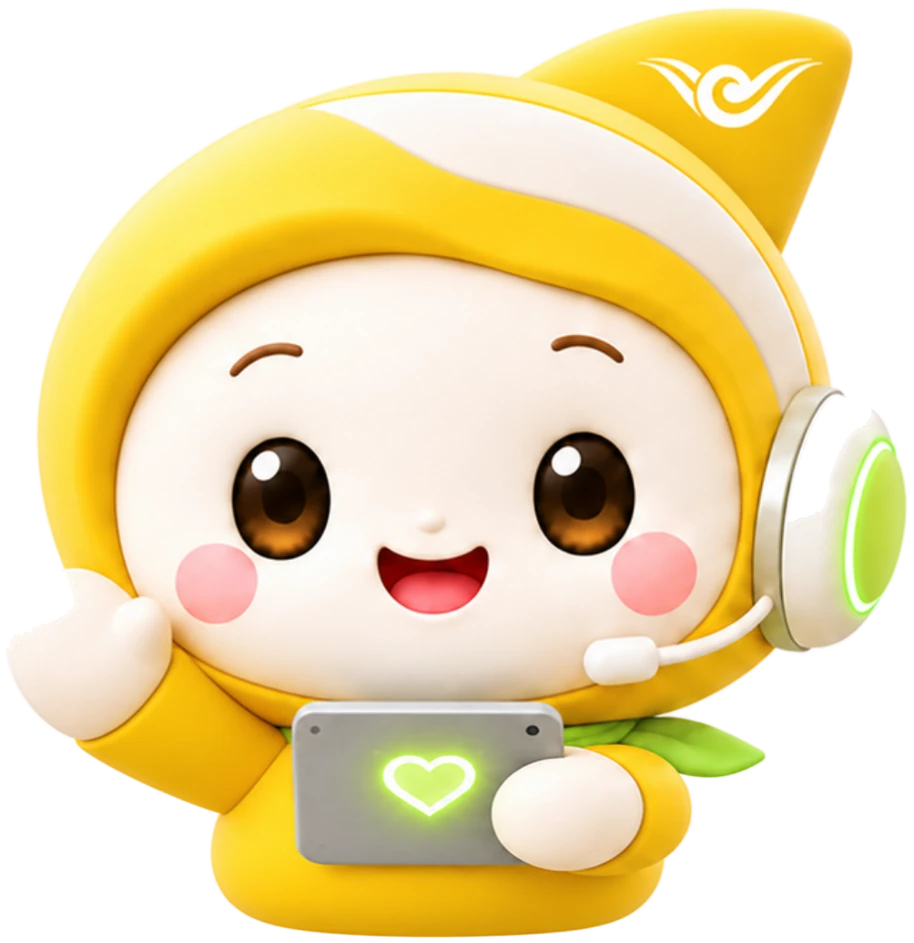
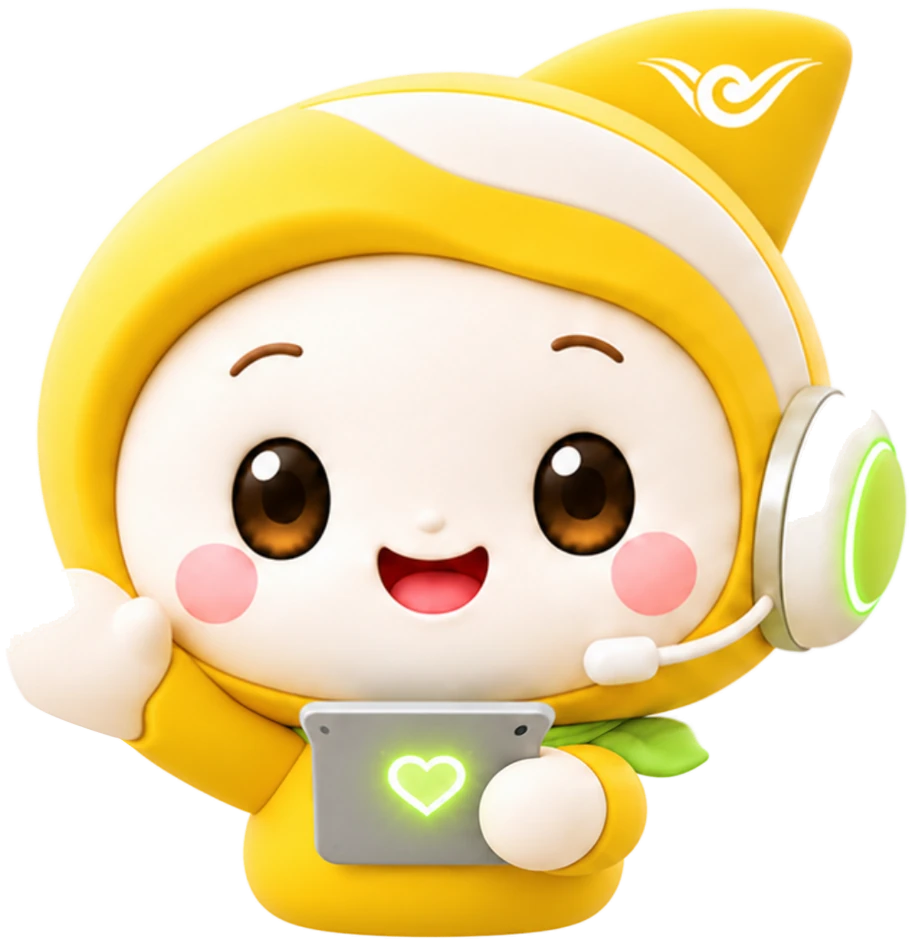
2.5D 0.3.4: 손인사 모자 뜯김, 포즈 몸통 폭, 하트·볼터치, 태블릿 보기, 끄덕·도리·들썩 크기, 엎드린 그림 크기·빛 번짐

Changed region(s): [[0.3982, 0.7381, 0.8578, 1.0], [0.0306, 0.7381, 0.3982, 1.0]]

diff --git a/2d/narang2d.js b/2d/narang2d.js
@@ -36,7 +36,7 @@ const A = {
 };
 const FR = { x: 228, y: 356, w: 500, h: 384 };   // face layer rectangle
 const VIEW = { x: 40, y: -120, w: 960, h: 1130 }; // what the stage shows (room above for jumps and Zzz)
-const LIE = { k: 1.5, x: -152, y: -47 };   // eye spacing matches the sitting art; tummy on the same ground line            // sleeping art placed in the same space
+const LIE = { k: 1.22, x: -27, y: 142 };   // eye spacing matches the sitting art; tummy on the same ground line            // sleeping art placed in the same space
 const LIE_A = { headset: { x: 670, y: 433 }, zzz: { x: 297, y: 219 }, ground: { x: 452, y: 647 } };   // in sleep.webp px
 const GRID = 48;
 
@@ -182,8 +182,8 @@ export function createNarang2D(host, o = {}) {
       let qx = A.neck.x + dx * c - dy * s + P.hx, qy = A.neck.y + dx * s + dy * c + P.hy;
       // 2.5D turn: the face slides over the dome, the horn and the ear cup (further back) move the other way
       const lx = look.x + P.shk;
-      qx += lx * 24 * wd - lx * 8 * whn - lx * 7 * whs + P.shk * 10;
-      qy += look.y * 14 * wd + P.nod * (6 + 12 * wd);   // nod: the face dips more than the hood rim
+      qx += lx * 24 * wd - lx * 8 * whn - lx * 7 * whs + P.shk * 14;
+      qy += look.y * 22 * wd + P.nod * (16 + 26 * wd);   // nod: the whole head dips, the face more than the hood rim
       px += (qx - px) * wh; py += (qy - py) * wh;
     }
     // whole body: breathing, squash and stretch, jump, sway
@@ -209,7 +209,7 @@ export function createNarang2D(host, o = {}) {
     }
     pz[name] = { d, im, rest, pos: new Float32Array(N * 2), wh, wl, tex: null };
   }
-  function limbW(l, x, y) { const e = Math.hypot((x - l.c[0]) / l.r[0], (y - l.c[1]) / l.r[1]); return 1 - smooth(0.8, 1.3, e); }
+  function limbW(l, x, y) { const e = Math.hypot((x - l.c[0]) / l.r[0], (y - l.c[1]) / l.r[1]); return 1 - smooth(0.72, 1.0, e); }
   function poseAge() { return now - poseT0; }
   function poseNames() { return posePrev === poseCur ? [poseCur] : [posePrev, poseCur]; }
   // pop between poses: the old one squashes and vanishes, the new one appears squashed, springs up and settles
@@ -404,7 +404,7 @@ export function createNarang2D(host, o = {}) {
           fctx.lineWidth = 7; fctx.beginPath(); fctx.moveTo(cx - Rx * 0.86, cy + R * 0.02); fctx.quadraticCurveTo(cx, cy + R * 0.34, cx + Rx * 0.86, cy + R * 0.02); fctx.stroke();
         } else {              // the lid edge across the eye, as wide as the eye at that height
           const hw = Rx * Math.sqrt(Math.max(0, 1 - ((ly - cy) / R) ** 2)) * 1.04;
-          if (hw > 2) {
+          if (hw > 2 && cover > 0.12) {
             const yAt = (xx) => yIn + (yOut - yIn) * (xx - xi) / (xo - xi);   // along the (slanted) lid line
             fctx.lineWidth = 6.5; fctx.beginPath(); fctx.moveTo(cx - hw, yAt(cx - hw));
             fctx.quadraticCurveTo(cx, yAt(cx) - bow * 2, cx + hw, yAt(cx + hw)); fctx.stroke();
@@ -489,10 +489,10 @@ export function createNarang2D(host, o = {}) {
   function drawBlush() {
     if (num.blush < 0.02) return;
     fctx.save();
-    for (const [x, y] of [[272, 650], [698, 632]]) {
-      const g = fctx.createRadialGradient(x - FR.x, y - FR.y, 0, x - FR.x, y - FR.y, 52);
-      g.addColorStop(0, `rgba(255,120,130,${0.42 * num.blush})`); g.addColorStop(1, 'rgba(255,120,130,0)');
-      fctx.fillStyle = g; fctx.beginPath(); fctx.ellipse(x - FR.x, y - FR.y, 60, 48, 0, 0, TAU); fctx.fill();
+    for (const [x, y] of [[276, 650], [680, 631]]) {   // centres of the painted cheeks
+      const g = fctx.createRadialGradient(x - FR.x, y - FR.y, 0, x - FR.x, y - FR.y, 44);
+      g.addColorStop(0, `rgba(255,105,120,${0.38 * num.blush})`); g.addColorStop(0.7, `rgba(255,105,120,${0.25 * num.blush})`); g.addColorStop(1, 'rgba(255,105,120,0)');
+      fctx.fillStyle = g; fctx.beginPath(); fctx.arc(x - FR.x, y - FR.y, 44, 0, TAU); fctx.fill();
     }
     fctx.restore();
   }
@@ -520,7 +520,7 @@ export function createNarang2D(host, o = {}) {
     for (let i = 0; i < n; i++) {
       const a = rand(-PI, 0), sp = rand(120, 300);
       if (type === 'spark') parts.push({ type, x, y, vx: Math.cos(a) * sp, vy: Math.sin(a) * sp - 60, life: rand(0.7, 1.1), age: 0, s: rand(14, 26), r: rand(0, PI), c: Math.random() < 0.5 ? '#FFD84A' : '#FFFFFF' });
-      else if (type === 'heart') parts.push({ type, x: x + rand(-40, 40), y, vx: rand(-70, 70), vy: rand(-260, -160), life: rand(1.1, 1.6), age: 0, s: rand(18, 30), r: rand(-0.3, 0.3), c: Math.random() < 0.6 ? '#9BE15D' : '#FF7A8A' });
+      else if (type === 'heart') { const sd = x < 476 ? -1 : x > 476 ? 1 : (i % 2 ? 1 : -1); parts.push({ type, x: x + sd * rand(10, 60), y, vx: sd * rand(90, 220), vy: rand(-230, -140), life: rand(1.1, 1.6), age: 0, s: rand(18, 30), r: rand(-0.3, 0.3), c: Math.random() < 0.6 ? '#9BE15D' : '#FF7A8A' }); }
       else if (type === 'z') parts.push({ type, x, y, vx: rand(40, 70), vy: rand(-70, -50), life: 2.6, age: 0, s: rand(30, 40), r: rand(-0.2, 0.1), c: '#8A6A3A' });
       else if (type === 'note') parts.push({ type, x, y, vx: rand(30, 80), vy: rand(-120, -80), life: 1.6, age: 0, s: 34, r: 0, c: '#E0A800' });
       else if (type === 'q' || type === 'ex') parts.push({ type, x, y, vx: 0, vy: -40, life: 1.8, age: 0, s: 84, r: type === 'q' ? 0.15 : -0.1, c: type === 'q' ? '#3D8BFF' : '#FF5A5A' });
@@ -668,27 +668,29 @@ export function createNarang2D(host, o = {}) {
     }, start() { setExpr('laugh'); }, end() { P.sq = 0; P.jy = 0; P.arms = 0; setExpr(baseExpr); } },
 
     love: { dur: 1.9, run(t, s) {
-      if (!s.b) { s.b = 1; const p = mapPoint(A.heart.x, A.heart.y - 30); spawn('heart', p[0], p[1], 9); }
+      if (!s.b) { s.b = 1; for (const sd of [-1, 1]) { const p = mapPoint(A.heart.x + sd * 230, A.heart.y - 60); spawn('heart', p[0], p[1], 5); } }
       heartGlow = 1 + 0.9 * Math.max(0, Math.sin(t * 9)) * (1 - t / 1.9);
       const u = clamp(t / 0.5, 0, 1); P.jy = -26 * Math.sin(PI * u) * (opts.reducedMotion ? 0.3 : 1); P.arms = 10 * Math.sin(PI * clamp(t / 1.2, 0, 1));
       P.head = 0.05 * Math.sin(t * 7) * (1 - t / 1.9);
     }, start() { setExpr('love'); hornKick(-2); }, end() { heartGlow = 1; P.jy = 0; P.arms = 0; P.head = 0; setExpr(baseExpr); } },
 
     tablet: { dur: 3.2, run(t, s) {   // look down at the tablet, tap it, smile
-      const down = smooth(0, 0.4, t) * (1 - smooth(2.5, 2.9, t));
-      look.tx = -0.08 * down; look.ty = 0.95 * down;
+      const down = smooth(0, 0.45, t) * (1 - smooth(2.4, 2.85, t));
+      look.tx = -0.05 * down; look.ty = 1 * down; P.droop = 0.55 * down; ov.lid = 0.38 * down; ov.gz = down;
       const tap = t > 0.6 && t < 2.2 ? Math.max(0, Math.sin((t - 0.6) * TAU * 1.9)) : 0;
       const left = Math.floor((t - 0.6) * 1.9) % 2 === 0;
-      P.tapL = left ? tap * 7 : 0; P.tapR = left ? 0 : tap * 7;
+      P.tapL = left ? tap * 18 : 0; P.tapR = left ? 0 : tap * 18;
       heartGlow = 1 + tap * 0.6;
-      if (tap > 0.95 && !s['h' + Math.floor(t * 2)]) { s['h' + Math.floor(t * 2)] = 1; const p = mapPoint(A.heart.x, A.heart.y - 20); spawn('heart', p[0], p[1], 1); }
+      if (tap > 0.95 && !s['h' + Math.floor(t * 2)]) { s['h' + Math.floor(t * 2)] = 1; const sd = left ? -1 : 1, p = mapPoint(A.heart.x + sd * 200, A.heart.y - 40); spawn('heart', p[0], p[1], 1); }
       if (t > 2.6 && !s.l) { s.l = 1; setExpr('laugh'); hornKick(1.5); }
-    }, start() { pointerT = -10; }, end() { P.tapL = P.tapR = 0; heartGlow = 1; setExpr(baseExpr); } },
+    }, start() { pointerT = -10; }, end() { P.tapL = P.tapR = 0; P.droop = 0; ov.lid = null; ov.gz = null; heartGlow = 1; setExpr(baseExpr); } },
 
     wiggle: { dur: 1.5, run(t) {
-      P.head = 0.07 * Math.sin(t * TAU / 0.75) * (1 - t / 1.5); P.sway = 0.025 * Math.sin(t * TAU / 0.75 + 0.6) * (1 - t / 1.5);
+      const e = 1 - smooth(1.1, 1.5, t);
+      P.head = 0.11 * Math.sin(t * TAU / 0.6) * e; P.sway = 0.045 * Math.sin(t * TAU / 0.6 + 0.5) * e;
+      P.jy = -14 * Math.abs(Math.sin(t * TAU / 0.6)) * e; P.sq = 0.03 * Math.cos(t * TAU / 0.3) * e;
       if (t > 1.1) { const p = mapPoint(780, 280); if (!this.n) { this.n = 1; spawn('note', p[0], p[1], 1); } }
-    }, start() { this.n = 0; setExpr('laugh'); }, end() { P.head = 0; P.sway = 0; setExpr(baseExpr); } },
+    }, start() { this.n = 0; setExpr('laugh'); }, end() { P.head = 0; P.sway = 0; P.jy = 0; P.sq = 0; setExpr(baseExpr); } },
 
     doze: { dur: 4.6, run(t, s) {
       yawnPart(t, s);
@@ -765,11 +767,11 @@ export function createNarang2D(host, o = {}) {
     }, start() { prevExpr = expr = eyeExpr = 'sleep'; eyePending = null; exprT = 1; P.droop = 1; }, end() { aSit = 1; aLie = 0; night = 0; lieS = 1; lieDY = 0; P.sq = 0; } },
 
     nod: { dur: 1.15, run(t) {   // yes, yes
-      P.nod = Math.max(0, Math.sin(t * TAU / 0.52)) * (1 - smooth(0.7, 1.15, t)); P.sq = 0.012 * P.nod;
-    }, start() { setExpr('laugh'); }, end() { P.nod = 0; P.sq = 0; setExpr(baseExpr); } },
+      P.nod = Math.max(0, Math.sin(t * TAU / 0.55)) * (1 - smooth(0.75, 1.15, t)); P.sq = 0.02 * P.nod;
+    }, end() { P.nod = 0; P.sq = 0; } },
 
     shake: { dur: 1.3, run(t) {   // no, no
-      P.shk = 0.9 * Math.sin(t * TAU / 0.44) * (1 - smooth(0.55, 1.3, t)); P.head = -0.045 * P.shk;
+      P.shk = 1.3 * Math.sin(t * TAU / 0.5) * (1 - smooth(0.7, 1.3, t)); P.head = -0.07 * P.shk;
     }, end() { P.shk = 0; P.head = 0; } },
 
     hello: { dur: 1.7, run(t, s) {   // hop, wink, sparkle, wiggle

diff --git a/2d/index.html b/2d/index.html
@@ -93,7 +93,7 @@
     <a href="../v3/">3D 버전 보기</a></p>
 
 <script type="module">
-  import { createNarang2D, canRender2D } from './narang2d.js?v=0.3.3';
+  import { createNarang2D, canRender2D } from './narang2d.js?v=0.3.4';
   const stage = document.getElementById('stage');
   const n = createNarang2D(stage, {
     assets: './assets/',

diff --git a/2d/tools/build_poses.py b/2d/tools/build_poses.py
@@ -13,17 +13,18 @@ os.makedirs(os.path.join(OUT, 'poses'), exist_ok=True)
 S = 0.91                     # generated art is ~10 % larger than the original (eye height 67 vs 61 px)
 ART_CX, ART_FEET = 476, 958  # eyes midpoint x and feet y of the original front view
 BODY_H = 210                 # original: hood bottom (y 748) to feet
+BODY_W = 0.84                # the generated bodies are also wider than the original's onesie
 
 # everything below in raw px of the generated images (measured on a grid)
 P = {
   'wave': dict(cx=611, feet=1167,
     eyes=[(445, 619, 54, 67), (778, 614, 55, 67)], neck=(590, 870),
-    limbs=[dict(c=(232, 787), r=(125, 120), pivot=(405, 905), kind='rot', amp=0.27, hz=2.3)],
+    limbs=[dict(c=(228, 792), r=(108, 100), pivot=(330, 905), kind='rot', amp=0.2, hz=2.2)],
     headset=(1095, 646), heart=(604, 934)),
   'cheer': dict(cx=590, feet=1200,
     eyes=[], neck=(600, 875),
-    limbs=[dict(c=(148, 737), r=(130, 125), pivot=(370, 905), kind='rot', amp=0.11, hz=1.7, phase=0),
-           dict(c=(1110, 752), r=(130, 125), pivot=(850, 905), kind='rot', amp=-0.11, hz=1.7, phase=0)],
+    limbs=[dict(c=(148, 737), r=(112, 108), pivot=(330, 900), kind='rot', amp=0.1, hz=1.7, phase=0),
+           dict(c=(1110, 752), r=(112, 108), pivot=(880, 900), kind='rot', amp=-0.1, hz=1.7, phase=0)],
     headset=(1053, 618)),
   'point': dict(cx=577, feet=1215,
     eyes=[(415, 636, 52, 66), (739, 603, 53, 67)], neck=(610, 880),
@@ -82,7 +83,11 @@ for name, p in P.items():
     def ymap(y_local): return float(np.interp(y_local, rows, yout))
     h2 = int(round(yout[-1]))
     src_rows = np.interp(np.arange(h2, dtype=np.float64), yout, rows).astype(np.float32)
-    mapy = np.repeat(src_rows[:, None], w, 1); mapx = np.repeat(np.arange(w, dtype=np.float32)[None, :], h2, 0)
+    neck_x = to_art(*p['neck'], p)[0] - ox
+    bl = np.clip((src_rows - (neck_l - 30)) / 60, 0, 1); bl = bl * bl * (3 - 2 * bl)
+    kx = (1 + (BODY_W - 1) * bl).astype(np.float32)
+    mapy = np.repeat(src_rows[:, None], w, 1)
+    mapx = (neck_x + (np.arange(w, dtype=np.float32)[None, :] - neck_x) / kx[:, None]).astype(np.float32)
     arr = np.asarray(im).astype(np.float32)
     pm = arr.copy(); pm[..., :3] *= pm[..., 3:4] / 255                 # premultiplied, so edges do not bleed
     res = cv2.remap(pm, mapx, mapy, cv2.INTER_CUBIC, borderMode=cv2.BORDER_CONSTANT, borderValue=0)
@@ -90,8 +95,11 @@ for name, p in P.items():
     im = Image.fromarray(np.clip(res, 0, 255).astype(np.uint8), 'RGBA'); h = h2
     oy = round(ART_FEET - ymap(ART_FEET - oy), 1)
     oy0 = to_art(x0, y0, p)[1]
+    nx_art = to_art(*p['neck'], p)[0]
     def A(x, y):                                               # raw px -> art px after the squeeze
-        ax, ay = to_art(x, y, p); return [ax, round(oy + ymap(ay - oy0), 1)]
+        ax, ay = to_art(x, y, p); yl = ay - oy0
+        b = np.clip((yl - (neck_l - 30)) / 60, 0, 1); b = b * b * (3 - 2 * b); k_ = 1 + (BODY_W - 1) * b
+        return [round(nx_art + (ax - nx_art) * k_, 1), round(oy + ymap(yl), 1)]
     im.save(os.path.join(OUT, 'poses', name + '.webp'), quality=90, method=6)
     print('  body', round(ART_FEET - (neck_l + oy0)), '->', BODY_H, 'k', round(kb, 2))
     # skin colour just above each eye (for the eyelid while blinking)

diff --git a/2d/tools/build_2d.py b/2d/tools/build_2d.py
@@ -123,6 +123,7 @@ ex = np.minimum(np.arange(ww), ww - 1 - np.arange(ww))[None, :].astype(np.float3
 edge = np.clip(np.minimum(ey, ex) / 160.0, 0, 1); edge = edge * edge * (3 - 2 * edge)
 glow_only = 1 - body
 sa = sa * (1 - glow_only * (1 - edge))
+sa = np.maximum(body, sa * 0.45)   # the baked glow is soft; the engine adds its own night glow
 sc = s / np.maximum(sa[..., None], 1e-3)
 ys, xs = np.where(sa > 0.03)
 x0, x1, y0, y1 = max(xs.min() - 4, 0), min(xs.max() + 5, s.shape[1]), max(ys.min() - 4, 0), min(ys.max() + 5, s.shape[0])

diff --git a/2d/README.md b/2d/README.md
@@ -1,4 +1,4 @@
-# 나랑이 2.5D (0.3.3)
+# 나랑이 2.5D (0.3.4)
 
 웹앱에 그대로 넣는 마스코트 모듈입니다. 그림 위에 숨쉬기·깜빡임·흔들림을 입히고, 포즈 그림 사이를 "웅크렸다 통 튀어나오는" 동작으로 전환합니다.
 
@@ -65,6 +65,15 @@ n.dispose();
 3. `python tools/build_poses.py tools/raw_poses assets` → `n.setPose('<이름>')`.
 
 만들어 두면 좋을 것: 사과(꾸벅), 하트 안기, 설명하기(손바닥 펴기), 엄지척, 졸기, 점프. 이번에는 Canva AI 사용량 한도에 걸려 만들지 못했습니다.
+
+## 0.3.4에서 고친 것 (버튼을 하나씩 눌러 확인)
+
+- **손인사**: 손을 흔들 때 손 옆 모자 가장자리가 같이 뜯겨 움직이던 것. 움직이는 범위를 손만으로 좁혔습니다.
+- **만세·길 안내 몸통**: 원본보다 넓던 몸통을 가로로 16% 줄였습니다.
+- **하트 뿅**: 하트가 입 위로 지나가던 것을 태블릿 양옆에서 바깥으로 날아가게, 볼터치가 원래 볼과 어긋나 두 겹으로 보이던 것을 원래 볼 위에 정확히 겹치게.
+- **태블릿 보기**: 거의 변화가 없던 것. 고개를 숙이고 눈꺼풀을 내려 태블릿을 내려다보며, 손으로 화면을 두드립니다(18px).
+- **끄덕끄덕·도리도리·들썩들썩**: 움직임이 너무 작던 것을 2배 가까이 키웠고, 끄덕일 때 눈이 ^^로 바뀌던 것을 없앴습니다.
+- **엎드려 자기**: 지난번에 화면을 꽉 채우게 키워서 잘리던 것을 앉은 모습과 높이를 맞춰 화면 안에 들어오게 줄였고, 그림에 들어 있던 노란 빛 번짐을 절반으로 줄였습니다.
 
 ## 0.3.3에서 고친 것 (56초 녹화를 프레임 단위로 검사해서 찾은 것)
 
